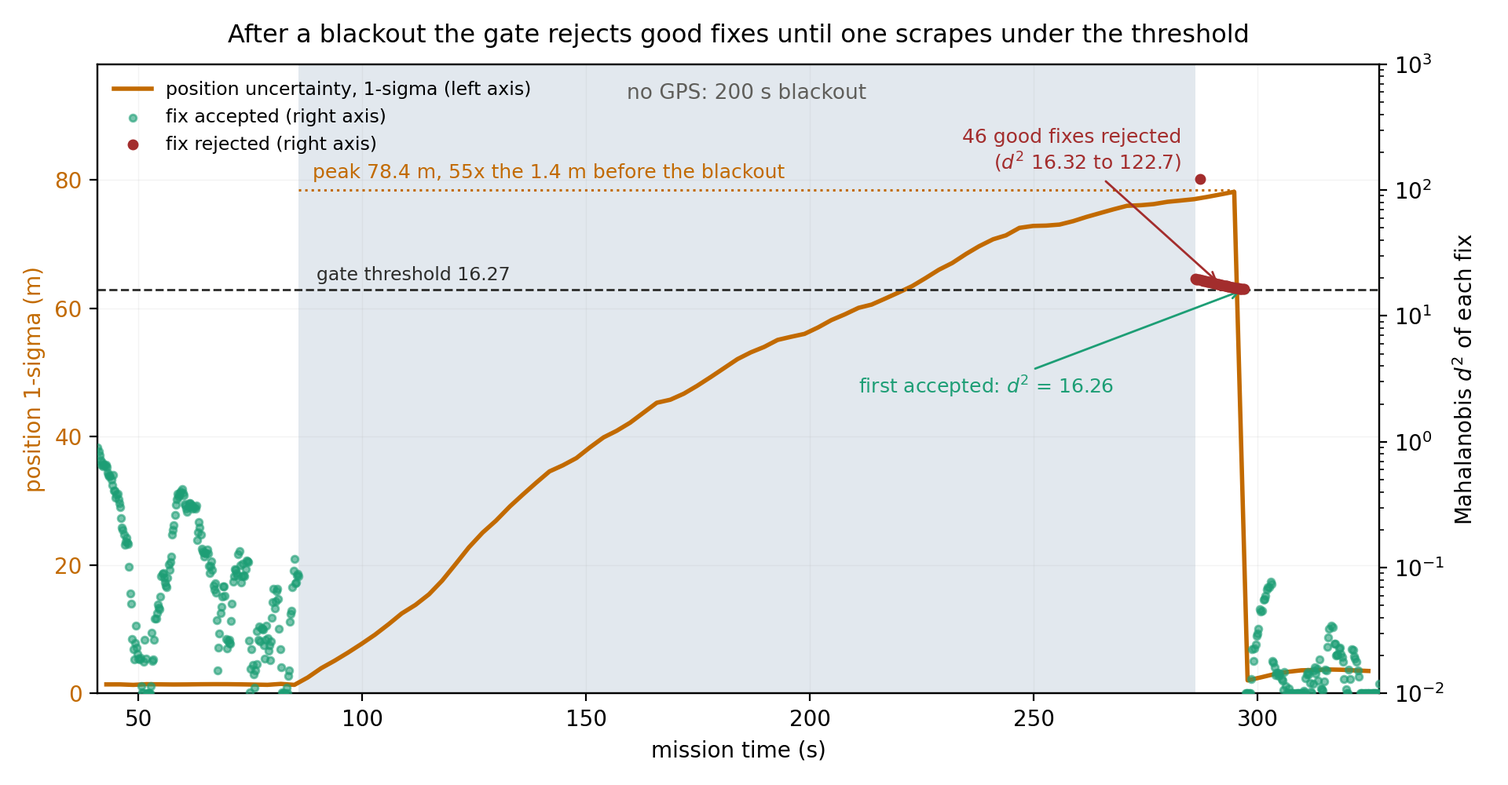
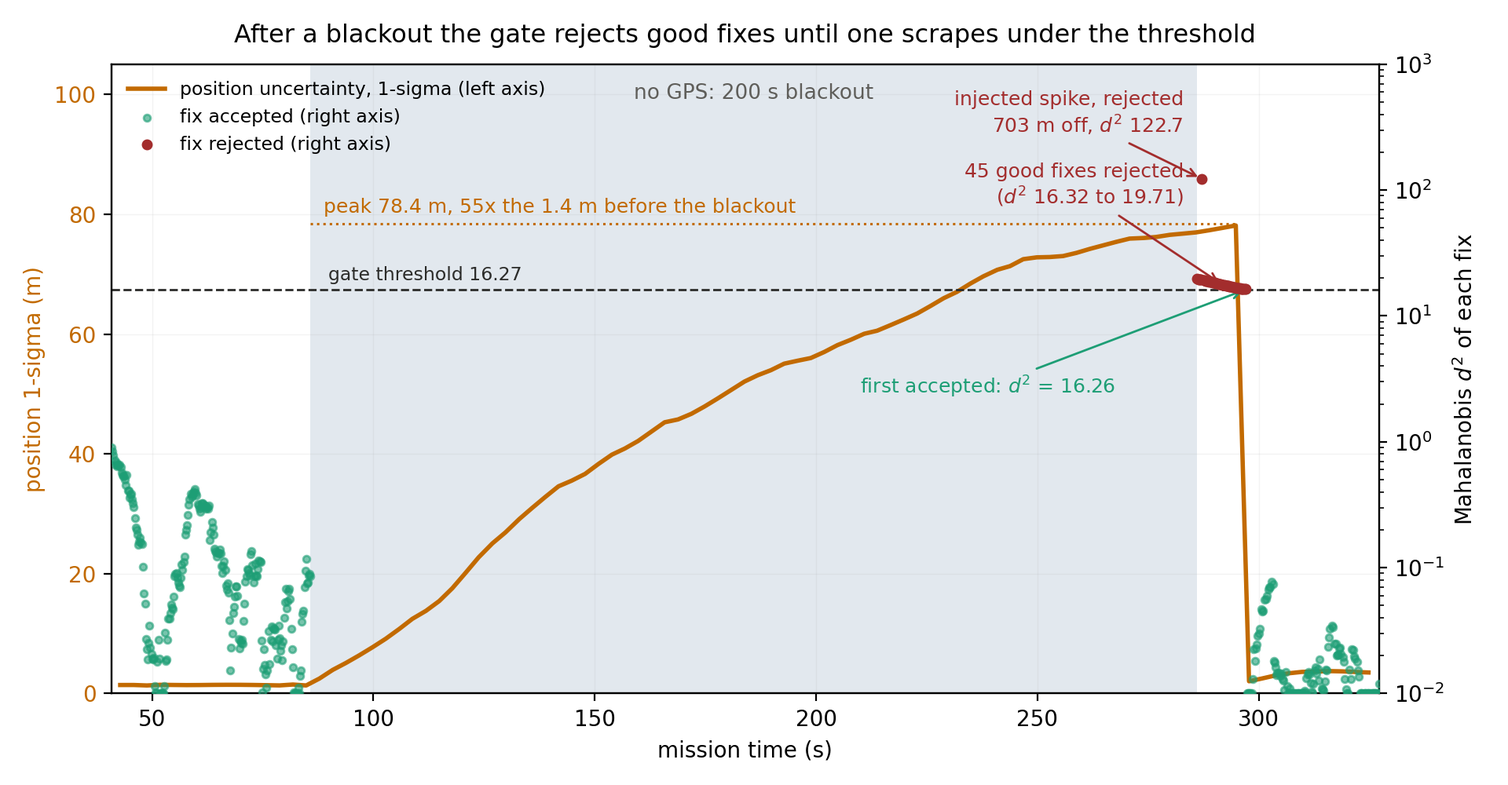
Add animations; verify every claim against ground truth
Two animations with transcripts and the scripts that render them. Building
them showed that lockouts start when a corrupted first fix after a real
signal loss passes the inflated gate: the paper's failure mode, on
2012-01-08. Checking 2012-08-20 against RTK ground truth confirmed the gate
rejected all 105 corrupted fixes (819-843 m off, not ~700), then wrongly
rejected 45 good ones for nine seconds. Corrects the named fix's d2 (90.6,
not 83.3, a clock mix-up) and the injected-outage breakdown (one spike, 45
good fixes). Report wording tightened.

diff --git a/scripts/figures/fig_blackout.py b/scripts/figures/fig_blackout.py
@@ -40,7 +40,7 @@ ax.plot([h[0] for h in hw], [h[1] for h in hw], color=AMBER, lw=2, zorder=3,
         label="position uncertainty, 1-sigma (left axis)")
 ax.set_ylabel("position 1-sigma (m)", color=AMBER)
 ax.tick_params(axis="y", labelcolor=AMBER)
-ax.set_ylim(0, peak_sig * 1.25)
+ax.set_ylim(0, peak_sig * 1.34)
 ax.set_xlim(lo, hi)
 ax.set_xlabel("mission time (s)")
 ax.plot([g0, peak[0]], [peak_sig, peak_sig], color=AMBER, ls=":", lw=1.1, zorder=2)
@@ -59,9 +59,21 @@ ax2.axhline(a.threshold, color=INK, ls="--", lw=1)
 ax2.text(g0 + 4, a.threshold * 1.18, f"gate threshold {a.threshold}", ha="left", fontsize=8.5, color=INK)
 ax2.set_ylabel("Mahalanobis $d^2$ of each fix")
 ax2.set_ylim(0.01, 1000)
-ax2.annotate(f"{len(rej)} good fixes rejected\n($d^2$ {min(s['d2'] for s in rej):.2f} to "
-             f"{max(s['d2'] for s in rej):.1f})",
-             xy=(rej[len(rej) // 2]["t"], rej[len(rej) // 2]["d2"]),
+# separate the injected spike from genuine fixes: by ground truth when the CSV has it,
+# otherwise by a d2 far above the threshold
+def is_spike(f):
+    return (f["err"] > 100.0) if f["err"] is not None else (f["d2"] > 3 * a.threshold)
+spikes = [f for f in rej if is_spike(f)]
+good = [f for f in rej if not is_spike(f)]
+for f in spikes:
+    ax2.annotate(f"injected spike, rejected\n" + (f"{f['err']:.0f} m off, " if f["err"] is not None else "")
+                 + f"$d^2$ {f['d2']:.1f}",
+                 xy=(f["t"], f["d2"]), xytext=(g1 - 3, peak_sig + 14.5), textcoords=ax.transData,
+                 ha="right", va="bottom", fontsize=9, color=RED,
+                 arrowprops=dict(arrowstyle="->", color=RED, lw=1))
+ax2.annotate(f"{len(good)} good fixes rejected\n($d^2$ {min(s['d2'] for s in good):.2f} to "
+             f"{max(s['d2'] for s in good):.2f})",
+             xy=(good[len(good) // 2]["t"], good[len(good) // 2]["d2"]),
              xytext=(g1 - 3, peak_sig + 2.5), textcoords=ax.transData,
              ha="right", va="bottom", fontsize=9, color=RED,
              arrowprops=dict(arrowstyle="->", color=RED, lw=1))
@@ -75,6 +87,11 @@ ax.grid(alpha=0.15, lw=0.5)
 ax.set_title("After a blackout the gate rejects good fixes until one scrapes under the threshold",
              fontsize=11.5, pad=10)
 fig.tight_layout()
+fig.canvas.draw(); _r = fig.canvas.get_renderer(); _ab = ax.get_window_extent(_r)
+for _t in ax.texts + ax2.texts:
+    _b = _t.get_window_extent(_r)
+    if _t.get_text() and (_b.x0 < _ab.x0 - 1 or _b.x1 > _ab.x1 + 1 or _b.y1 > _ab.y1 + 1):
+        raise SystemExit(f"label outside the axes: {_t.get_text()!r}")
 fig.savefig(a.out, dpi=200)
-print(f"wrote {a.out}; baseline {base:.2f} m, peak {peak_sig:.2f} m, "
-      f"{len(rej)} rejected, first accept d2 {first_acc['d2']:.2f}")
+print(f"wrote {a.out}; baseline {base:.2f} m, peak {peak_sig:.2f} m, {len(rej)} rejected "
+      f"({len(spikes)} spike, {len(good)} good), first accept d2 {first_acc['d2']:.2f}")

diff --git a/report/report.md b/report/report.md
@@ -2,14 +2,14 @@
 
 ## 1. Introduction
 
-FusionCore is an open-source ROS 2 package released in May 2026 by M. Kharwar [1], [2]. It combines IMU, wheel encoder, GPS and visual SLAM data into one 100 Hz odometry stream using a 23-state Unscented Kalman Filter (UKF) [5]. Kharwar benchmarks it against `robot_localization` [4], *the* standard ROS package for this job, across twelve full-length sequences of the University of Michigan NCLT dataset [3], and reports a lower absolute trajectory error on 10 of the 12.
+FusionCore is an open-source ROS 2 package released in May 2026 by M. Kharwar [1], [2]. It combines IMU, wheel encoder, GPS and visual SLAM data into one 100 Hz odometry stream using a 23-state Unscented Kalman Filter (UKF) [5]. Kharwar benchmarks it against `robot_localization` [4], the standard ROS package for this job, across twelve full-length sequences of the University of Michigan NCLT dataset [3], and reports a lower absolute trajectory error on 10 of the 12.
 
 I chose this paper as a project anchor because it makes concrete claims that can be checked. The paper is honest about its worst failure, and proposes a specific fix in its future-work section backed by an arithmetic justification. It also introduces a novel 23rd state and claims that it improves performance, but never isolates it to test that.
 
 So instead of simply reproducing the author's benchmark, I decided to test three specific claims:
 
 1. That a velocity-consistency pre-gate would fix the author's documented failure on the 2012-08-20 sequence.
-2. That the 23rd state *actually* improves performance.
+2. That the 23rd state actually improves performance.
 3. That the paper's account of the failure mechanism is right: that covariance growth during a GPS blackout blinds the filter's statistical outlier gate, which then accepts corrupted fixes.
 
 I implemented the proposed changes and wrote the unit tests that were missing from the repository. I then tested each claim against the source code and the original dataset.
@@ -51,9 +51,9 @@ That result changed how I ran everything afterwards. Full 90-minute sequences lo
 
 The paper's second loss is on the 2012-08-20 sequence, where FusionCore scores 98.3 m against `robot_localization`'s 10.6 m. Section VII-E of the paper [1] diagnoses it in detail. After a 211-second GPS blackout, a cluster of 105 corrupted fixes arrives, each landing 720 to 840 m from the true position. The author argues that the filter's covariance has grown so large during the blackout that its chi-squared outlier gate no longer finds them surprising, so it accepts them, and together they drag the position estimate 788 m off course.
 
-The proposed fix appears in Section IX of the paper: check the implied speed before the statistical gate runs. A fix 720 m from the dead-reckoned position after a 211-second blackout implies roughly 3400 m/s of travel, which is of course impossible for a Segway that moves at 1.5 m/s. The paper describes this as having "zero effect on normal GPS operation," and the reasoning makes sense: a physics limit can't be fooled by uncertainty the way a statistical test can.
+The proposed fix appears in Section IX of the paper: check the implied speed before the statistical gate runs. A fix 720 m from the dead-reckoned position after a 211-second blackout implies roughly 3400 m/s of travel, which is impossible for a Segway that moves at 1.5 m/s. The paper describes this as having "zero effect on normal GPS operation," and the reasoning makes sense: a physics limit can't be fooled by uncertainty the way a statistical test can.
 
-*I decided to implement it.* The changes to the code are pretty limited and live in four places:
+I implemented it. The changes are small and touch four places:
 
 - a new `SPEED_IMPLAUSIBLE` value in the rejection-reason enum
 - a `gnss_max_implied_speed` configuration parameter, set to 20 m/s for my experiments (it defaults to off, so the modified code behaves like upstream unless someone enables it)
@@ -76,7 +76,7 @@ I scanned `gps.csv` for consecutive quality-3 fixes more than 300 m apart and co
 
 713.8 ÷ 211.19 = 3.4 m/s
 
-Not 3400. The paper is off by a factor of a thousand, which is what you get from dividing by 0.211 seconds instead of 211. At 3.4 m/s the fix passes a 20 m/s threshold easily.
+The paper's 3400 m/s is a thousand times too high, consistent with dividing by 0.211 s instead of 211 s. At 3.4 m/s the fix passes a 20 m/s threshold easily.
 
 ![Log-log scatter of every GPS fix-to-fix step on 2012-08-20, elapsed time against displacement, with a diagonal line for a 20 m/s speed threshold. The fix arriving after the 211-second blackout sits below the line; a genuine 823 m jump in 0.4 s sits far above it.](../figures/fig_speedgate.png)
 
@@ -90,24 +90,24 @@ This points at something structural. A check of the form "displacement ÷ time s
 
 The check isn't harmless on ordinary GPS either. Of the 19,741 normal fix-to-fix steps on 2012-08-20, 30 imply more than 20 m/s, so a 20 m/s gate would throw away 30 fixes from normal driving alongside the one real teleport. Whether those 30 are GPS errors or valid readings I didn't determine.
 
-The injected-fault tests showed the same thing from the other direction. A 500 m spike at t=120 s with no preceding blackout produced the same trajectories with the gate on and off: a maximum single-step jump of 1.22 m against 1.30 m. The debug topic showed my gate fired first and caught the spike before the chi-squared gate ran, but in an earlier run of the same test the chi-squared gate had rejected it on its own, with a Mahalanobis distance of 46,515 against a threshold of 16.27. With the covariance small, the existing gate isn't blinded and mine has nothing to add.
+The injected-fault tests showed the same thing from the other direction. A 500 m spike at t=120 s with no preceding blackout produced the same trajectories with the gate on and off: a maximum single-step jump of 1.22 m against 1.30 m. The debug topic showed my gate fired first and caught the spike before the chi-squared gate ran, but in an earlier run of the same test the chi-squared gate had rejected it on its own, with a squared Mahalanobis distance (d²) of 46,515 against a threshold of 16.27. With the covariance small, the existing gate isn't blinded and mine has nothing to add.
 
-The test that actually mattered was a long blackout, since that's the condition the paper describes. I injected a 200-second outage from t=100 s. I also scheduled a spike for one second after GPS returned, but the injector times it from playback start and it didn't land in that window, so what this test actually measured was the gate after a long blackout. The covariance inflation is real and large: position sigma climbed from a median of 1.4 m before the outage to 78.4 m by the end of it, about 55 times larger.
+The test that actually mattered was a long blackout, since that's the condition the paper describes. I injected a 200-second outage from t=100 s. I also scheduled a 500 m spike for one second after GPS returned. The covariance inflation is real and large: position sigma climbed from a median of 1.4 m before the outage to 78.4 m by the end of it, about 55 times larger.
 
-What happened next I misread at first. With no spike in the data, every fix arriving after the outage was genuine, and the chi-squared gate rejected the first 46 of them anyway, with Mahalanobis distances from 16.32 up to 122.7. None were rejected by my pre-gate. The filter had drifted during the outage, so correct fixes looked like outliers. It only accepted one when a fix scored 16.26, just under the 16.27 threshold. I took this as the gate holding up. It's actually a short version of the failure in §5: the gate refusing good GPS after a gap.
+The gate rejected the spike, 703 m from the truth, at a d² of 122.7, even with the uncertainty at 78 m. That part held up. What I misread at first was everything around it. The gate rejected 46 fixes before accepting one, and only one of them was the spike: the other 45 were genuine, 0 to 4 m from the truth, rejected at d² 16.32 to 19.71. None were rejected by my pre-gate. The filter had drifted during the outage, so correct fixes looked like outliers, and it only accepted one when a fix scored 16.26, just under the 16.27 threshold. I took all 46 as the gate holding up. The 45 are actually a short version of the failure in §5: the gate refusing good GPS after a gap.
 
-![Filter position uncertainty rising steadily through a 200-second injected GPS blackout, with the Mahalanobis distance of each GPS fix on a second axis. After the blackout a cluster of rejected fixes sits just above the gate threshold until one falls below it.](../figures/fig_blackout.png)
+![Filter position uncertainty rising steadily through a 200-second injected GPS blackout, with the d² of each GPS fix on a second axis. After the blackout a cluster of rejected fixes sits just above the gate threshold until one falls below it.](../figures/fig_blackout.png)
 
-*Figure 2. During a 200-second injected blackout the filter's position uncertainty grows from 1.4 m to 78.4 m. When GPS returns, the gate rejects 46 genuine fixes before one scores 16.26 against the 16.27 threshold.*
+*Figure 2. During a 200-second injected blackout the filter's position uncertainty grows from 1.4 m to 78.4 m. When GPS returns, the gate rejects the injected spike, and then 45 genuine fixes before one scores 16.26 against the 16.27 threshold.*
 
-The last test settled it. I re-ran the full 2012-08-20 sequence with the debug topics recorded, which capture the rejection reason and Mahalanobis distance for every single fix. Across the run:
+The last test settled it. I re-ran the full 2012-08-20 sequence with the debug topics recorded, which capture the rejection reason and d² for every single fix. Across the run:
 
 - 17,093 fixes accepted
 - 2,862 rejected by the chi-squared gate
 
-The filter's debug output keeps its own clock, which starts 14.79 s after the GPS log's, so from here on times are the filter's: the fix the paper names, t+3959.6 s in the GPS log, is t+3944.8 s. The last fix before the blackout had been accepted normally. From the fix the paper names to t+3978.4 s, every fix was rejected, continuously, with the filter in coast mode and position sigma between 63 and 68 m. The fix the paper names was rejected with a Mahalanobis distance of **90.6** against a threshold of 16.27, more than five times over. At t+3978.4 s one fix finally passed, and sigma collapsed from 68.0 m to 3.06 m in a single update.
+The filter's debug output keeps its own clock, which starts 14.79 s after the GPS log's, so from here on times are the filter's: the fix the paper names, t+3959.6 s in the GPS log, is t+3944.8 s. The last fix before the blackout had been accepted normally. From the fix the paper names to t+3978.4 s, every fix was rejected, continuously, with the filter in coast mode and position sigma between 63 and 68 m. The fix the paper names was rejected with a d² of **90.6** against a threshold of 16.27, more than five times over. At t+3978.4 s one fix finally passed, and sigma collapsed from 68.0 m to 3.06 m in a single update.
 
-The gate rejected the entire adversarial cluster, including the fix the paper singles out. Of the fixes rejected between the end of the blackout and the first accepted one, 43 are corrupted fixes with ground truth to check them against, all about 820 to 840 m off and rejected at d² 71.3 to 82.5; another 62, early in the block, have no ground truth to check.
+The gate rejected the entire adversarial cluster, including the fix the paper singles out. The block between the end of the blackout and the jump back to the truth holds 105 fixes, the number the paper gives, and all were rejected, at d² 71.3 to 92.3. Ground truth covers 43 of them, which sit 819 to 843 m from the truth; the other 62 come first, before ground truth resumes, and score the same high d².
 
 It also rejected more than it should have. After the cluster ended, the gate went on rejecting good fixes, 45 of them, a few metres from the truth, at d² 16.3 to 17.4, just over the threshold, for another nine seconds before one got through. That's a short version of the lockout in §5, on the paper's own sequence.
 
@@ -119,7 +119,7 @@ So no GPS gate can fix it, because the GPS is already being thrown away. The pre
 
 The paper's novelty is a single number, which the author describes as the 23rd state. Alongside the usual gyroscope and accelerometer biases, the 23rd state, `b_ewz`, estimates the wheel encoder's systematic yaw-rate error. On a differential-drive robot this comes from wheel radius mismatch and mechanical asymmetry, and it's close to constant. The filter identifies it from GPS heading while GPS is available, and the paper argues this reduces heading drift during blackouts.
 
-All the other states are pretty standard and established practice, and the author implements them carefully. This one state is the paper's claim to novelty, and it's the one thing the evaluation never isolates. The author added it and changed the set of evaluation sequences in the same step, so the reported improvement has two candidate causes and no way to separate them.
+The other 22 states are standard practice, and the author implements them carefully. This one state is the paper's claim to novelty, and it's the one thing the evaluation never isolates. The author added it and changed the set of evaluation sequences in the same step, so the reported improvement has two candidate causes and no way to separate them.
 
 Running the controlled version needed a switch, which wasn't in the codebase.
 
@@ -127,7 +127,7 @@ Finding where in the code to put the switch proved more difficult than I expecte
 
 The author had already built this mechanism twice, for position and for gyro bias, as runtime multipliers on the process noise inside `predict()`. So the lever is three lines mirroring a pattern already in the file, plus a setter, a member and configuration plumbing. Setting the scale to zero freezes `b_ewz` at its initialised value of zero, which makes its term in the encoder measurement inert. `STATE_DIM` stays at 23, the sigma point count stays at 47, and every matrix keeps its shape. The only thing that changes is whether the 23rd state can adapt.
 
-When I read the encoder measurement function to confirm the term goes inert, something interesting came up. The code computes `z[2] = x[WZ] + x[B_EWZ]`, adding the bias, while the paper's equation 13 subtracts it. I cover that and three other documentation defects in §7.
+When I read the encoder measurement function to confirm the term goes inert, I found a discrepancy. The code computes `z[2] = x[WZ] + x[B_EWZ]`, adding the bias, while the paper's equation 13 subtracts it. I cover that and three other documentation defects in §7.
 
 No test in the repo validates the 23rd state. Both encoder measurement tests leave `b_ewz` at zero, so the term is never observed with a value. The magnetometer feature added in version 0.3.1 got twelve new tests; the paper's headline contribution has none. I wrote two: one setting `b_ewz` to 0.05 with a yaw rate of 0.40 and asserting the measurement comes out at 0.45 rather than 0.35, pinning the sign convention against equation 13, and one confirming the lever freezes the state's variance while leaving `STATE_DIM` at 23.
 
@@ -243,7 +243,7 @@ As far as I can tell, the difference between the two outage runs isn't the 23rd 
 
 This explains the long-run excursions I couldn't account for in §2. I had checked the GPS in a five-second window around one of the jumps, seen healthy fixes and normal covariance, and concluded GPS wasn't involved. It was: the jump is the moment the filter finally accepted GPS after minutes of refusing it. The 324 m and 600 m excursions from my earlier runs look like the same thing, but those recordings no longer exist, so I couldn't confirm it.
 
-It also explains why the injected outages never triggered this failure. The injector deletes fixes while the receiver keeps its signal, so the fix after an injected outage is as good as any other, 1.4 m from the truth. The 46 rejections after the injected outage in §3 were a different, shorter case: the fixes were good, but the estimate had drifted too far for them to fit the gate. A real signal loss is harder than a simulated one, and a test built only on injected outages misses this failure entirely.
+It also explains why the injected outages never triggered this failure. The injector deletes fixes while the receiver keeps its signal, so the fix after an injected outage is as good as any other, 1.4 m from the truth. The 45 good fixes rejected after the injected outage in §3 were a different, shorter case: the fixes were good, but the estimate had drifted too far for them to fit the gate. A real signal loss is harder than a simulated one, and a test built only on injected outages misses this failure entirely.
 
 And it completes the picture from §3. On 2012-08-20 the gate held against the corrupted fixes, because its uncertainty never grew enough to let them through, though it then refused 45 good fixes for nine seconds. On 2012-01-08 it did, and one corrupted fix got in: the paper's failure, on a sequence it didn't examine. The consequence is worse than the paper describes. The bad fix turned the gate against the good GPS that followed, for minutes at a time, and in one run for the whole last third of the sequence.
 
@@ -292,7 +292,7 @@ With those three fixed, a 60-second slice still came out 37% duplicates, so some
 
 About a third of the time, the publish timer reads the same simulated time as the fire before it. Those messages carry the same state as well as the same timestamp, because the filter only predicts when an IMU message arrives and no simulated time has passed. Nothing is lost by not sending them, and odometry with duplicate timestamps is malformed anyway: anything interpolating over time gets zero-length intervals.
 
-What I didn't establish is *why* the node's clock value doesn't advance between those fires. The obvious explanation would be the timer running faster than the clock, but the numbers rule that out. The recordings hold about 902,000 `/clock` messages over roughly 5,500 simulated seconds, which at 3× playback is about 490 clock updates per second of wall time against the timer's 100. The clock updates around five times more often than the timer fires. My best guess is something in how the node caches its clock value, since the timer and the `/clock` subscription run in separate callback groups, but I haven't verified it. The measurement and the fix are solid; the mechanism isn't.
+What I didn't establish is why the node's clock value doesn't advance between those fires. The obvious explanation would be the timer running faster than the clock, but the numbers rule that out. The recordings hold about 902,000 `/clock` messages over roughly 5,500 simulated seconds, which at 3× playback is about 490 clock updates per second of wall time against the timer's 100. The clock updates around five times more often than the timer fires. My best guess is something in how the node caches its clock value, since the timer and the `/clock` subscription run in separate callback groups, but I haven't verified it. The measurement and the fix are solid; the mechanism isn't.
 
 ### The fixes
 
@@ -334,11 +334,11 @@ These are the things I couldn't explain or rule out. They limit what the rest of
 
 **The `robot_localization` baseline.** In every run I made, on both sequences, the EKF baseline scored five to twenty times worse than the author's published figures: around 254 m on 2012-01-08 where he reports 41 m, and 216 m on 2012-08-20 where he reports 10.6 m. It's very consistent, 253.8 to 254.6 m across the four ablation runs, which is what makes it useful as a control. But it also means something systematic differs between my setup and his, in a filter I never touched. I didn't investigate it, because it's outside both contributions and the control property was all I needed from it.
 
-**Whether the 23rd state's effect is systematic.** My first two explanations for the §4 result failed, and the one that survived explains *how* the arms differ, through the lockout, but not *why* the state should change the outcome. The one measurement bearing on it points to chance: while coasting blind before the final gap ended, the two arms drifted by similar amounts, 198 m and 170 m, and the difference in outcome came from the direction of the drift. Escaping a lockout is knife-edge, I ran one run per configuration, and I didn't log the state's value, so I can't tell whether the state makes lockouts systematically worse or just tipped one run. The 12% path-length shortfall is measured three ways and is solid, but I also didn't trace how a yaw-rate bias ends up shortening the estimated distance, since a heading error on its own rotates each step without shortening it.
+**Whether the 23rd state's effect is systematic.** My first two explanations for the §4 result failed, and the one that survived explains how the arms differ, through the lockout, but not why the state should change the outcome. The one measurement bearing on it points to chance: while coasting blind before the final gap ended, the two arms drifted by similar amounts, 198 m and 170 m, and the difference in outcome came from the direction of the drift. Escaping a lockout is knife-edge, I ran one run per configuration, and I didn't log the state's value, so I can't tell whether the state makes lockouts systematically worse or just tipped one run. The 12% path-length shortfall is measured three ways and is solid, but I also didn't trace how a yaw-rate bias ends up shortening the estimated distance, since a heading error on its own rotates each step without shortening it.
 
 **Scope.** The ablation is one sequence, one outage configuration and one run per cell. Playback is deterministic, so repeating a configuration gives identical results and adds nothing, but that's not the same as generalising. The paper's claim is about the general case; my result is about 2012-01-08 with a 200-second injected outage.
 
-In the same way, §3's finding that the chi-squared gate rejects the corrupted cluster only holds for 2012-08-20, where it rejected them at 4.4 to 5.6 times the threshold. On 2012-01-08 a corrupted fix did get through (§5). The paper documents a second loss on 2012-06-15, with a much longer blackout, which I didn't run; it may show the same failure again.
+In the same way, §3's finding that the chi-squared gate rejects the corrupted cluster only holds for 2012-08-20, where it rejected them at 4.4 to 5.7 times the threshold. On 2012-01-08 a corrupted fix did get through (§5). The paper documents a second loss on 2012-06-15, with a much longer blackout, which I didn't run; it may show the same failure again.
 
 **A note on the harness.** The results in §2 and §3 were produced before the §6 fixes. The four ablation runs that §4 and §5 rely on used the corrected build. The fixes don't touch state estimation, and re-scoring the earlier results from deduplicated trajectories reproduced every figure to three decimal places, so the two sets are comparable. They still weren't produced by identical software, and I'd rather state that than leave it implied.
 
@@ -350,11 +350,11 @@ The proposed velocity pre-gate has no target on the sequence it was designed for
 
 The 23rd state didn't improve accuracy in any condition I tested. Freezing it gave a lower trajectory error both with GPS available (9%) and across a 200-second outage (75%). But both differences come down to how long each run was locked out of GPS, and the one direct measurement suggests chance: the two arms drifted by similar amounts while coasting blind, in different directions. So I can't say whether the state makes lockouts systematically worse. What I can say is that the paper's claimed improvement isn't supported.
 
-The paper's account of the failure mechanism is right, but not where the paper found it. On 2012-08-20 the gate held: with position sigma at 63–68 m it still rejected the corrupted cluster at 4.4 to 5.6 times its threshold. On 2012-01-08 it didn't. After a real 112-second signal loss, the uncertainty had grown enough for a fix 157 m from the truth to get through, and the proposed pre-gate would have passed it too, at 1.48 m/s. The consequence is worse than the paper describes. The bad fix collapsed the filter's uncertainty at the wrong place, so the gate then rejected the good fixes that followed, for around a thousand fixes in every run, and in one run for the rest of the sequence. The repository's outage injector can't reproduce this, because an injected outage never produces a corrupted fix.
+The paper's account of the failure mechanism is right, but not where the paper found it. On 2012-08-20 the gate held: with position sigma at 63–68 m it still rejected the corrupted cluster at 4.4 to 5.7 times its threshold. On 2012-01-08 it didn't. After a real 112-second signal loss, the uncertainty had grown enough for a fix 157 m from the truth to get through, and the proposed pre-gate would have passed it too, at 1.48 m/s. The consequence is worse than the paper describes. The bad fix collapsed the filter's uncertainty at the wrong place, so the gate then rejected the good fixes that followed, for around a thousand fixes in every run, and in one run for the rest of the sequence. The repository's outage injector can't reproduce this, because an injected outage never produces a corrupted fix.
 
 Along the way I fixed three defects in the benchmark harness, plus a fourth they were hiding. Recorded odometry was between 38% and 95% duplicate timestamps, the player never exited, and the launch never shut down. Those recordings are malformed, although the published error figures don't depend on it.
 
-What I'd take from this is narrow and worth saying plainly. Every claim here could be checked against the source and the data, and checking took far longer than implementing. The implementations were small. The verification was the work.
+Every claim here could be checked against the source code and the data. The code changes were small; checking what they actually did took most of the project.
 
 ## Code and Data
 

diff --git a/results/benchmark_tables.md b/results/benchmark_tables.md
@@ -73,14 +73,19 @@ at intervals of 0.19 to 2.01 s, implied speeds 0.8 to 31.1 m/s.
 | Clock offset | the filter's clock starts 14.79 s after the GPS log's; times below are the filter's |
 | Last fix before the blackout, t+3733.65 s | accepted, d2 = 0.88; blackout 211.19 s |
 | Fix named by the paper, t+3944.84 s (GPS log t+3959.63 s) | rejected, d2 = 90.6, threshold 16.27 |
-| Blackout end to first accepted fix | 150 rejected: 43 corrupted (checked vs RTK, ~820-840 m off, d2 71.3-82.5), 45 good (d2 16.33-17.44), 62 without RTK truth |
+| Blackout end to first accepted fix | 150 rejected (script: `blackout_recovery.py`) |
+| Corrupted block, t+3944.8 to 3969.0 s | 105 fixes, all rejected, d2 71.29-92.29: 62 first with no RTK truth (d2 82.51-92.29), then 43 checked, 819-843 m from the truth (d2 71.29-82.53) |
+| After the jump back, t+3969.4 to 3978.2 s | 45 good fixes, 2-9 m from the truth, rejected at d2 16.33-17.44 |
+| First accepted fix, t+3978.44 s | d2 16.22, 1.8 m from the truth |
 | Position sigma in that window | 63.4 to 68.0 m |
-| First fix accepted, t+3978.4 s | d2 = 16.2; sigma 68.01 m to 3.06 m |
+| Sigma at the first accepted fix | 68.01 m to 3.06 m |
 
 ### Injected 200 s blackout on 2012-01-08, old harness (script: `coast_sigma.py`)
 
-The injected spike did not land after the blackout (the injector times it
-from playback start), so every fix arriving after the outage was genuine.
+The filter's clock starts 13.92 s after the GPS log's in this run. The last
+fix before the outage was accepted (d2 0.09); the outage lasted 200.26 s.
+The injected spike landed 1.1 s after GPS returned (script:
+`blackout_recovery.py`).
 
 | Quantity | Value |
 |---|---|
@@ -88,10 +93,11 @@ from playback start), so every fix arriving after the outage was genuine.
 | Peak position sigma | 78.4 m (78.13 m on the 1 Hz health topic, 78.42 m at the last rejected fix) |
 | Growth | about 55x |
 | Rejections after the outage | 46, all chi-squared, none by the pre-gate |
-| d2 of those rejections | 16.32 to 122.68 (closest 0.3% over the 16.27 threshold) |
-| First fix accepted | d2 = 16.26, 0.06% under the threshold |
+| Of which: the injected spike | 1, 703 m from the truth, d2 122.68 |
+| Of which: good fixes | 45, 0-4 m from the truth, d2 16.32 to 19.71 (closest 0.3% over the 16.27 threshold) |
+| First fix accepted | d2 = 16.26, 0.06% under the threshold, 0.8 m from the truth |
 
-These 46 were good fixes, so this is a short lockout (section 3 below).
+The 45 good fixes make this a short lockout (section 3 below).
 
 ### Injected spike with no preceding blackout
 

diff --git a/scripts/README.md b/scripts/README.md
@@ -63,7 +63,7 @@ python3 tools/evaluate.py --gt gt.tum --fusioncore fc.tum --rl rl.tum \
 | Duplicate timestamps in recordings | `analysis/dedup.py` |
 | The gate locks out: ~1,000 consecutive rejections in every run | `analysis/rejection_episodes.py` |
 | Rejected fixes are as accurate as accepted ones | `analysis/fix_vs_truth.py` |
-| Sigma grows 55x in a blackout; 46 good fixes rejected after | `analysis/coast_sigma.py` |
+| Sigma grows 55x in a blackout; the spike and 45 good fixes rejected after | `analysis/coast_sigma.py`, `analysis/blackout_recovery.py` |
 | Lockouts follow natural GPS gaps, starting after an accepted fix | `figures/gps_gaps.py` |
 | Lockouts start when a corrupted first fix after a real signal loss gets through | `animations/first_fix.py` |
 | The pre-gate passes every post-gap fix (0.34 to 1.48 m/s) | `animations/first_fix.py` |
